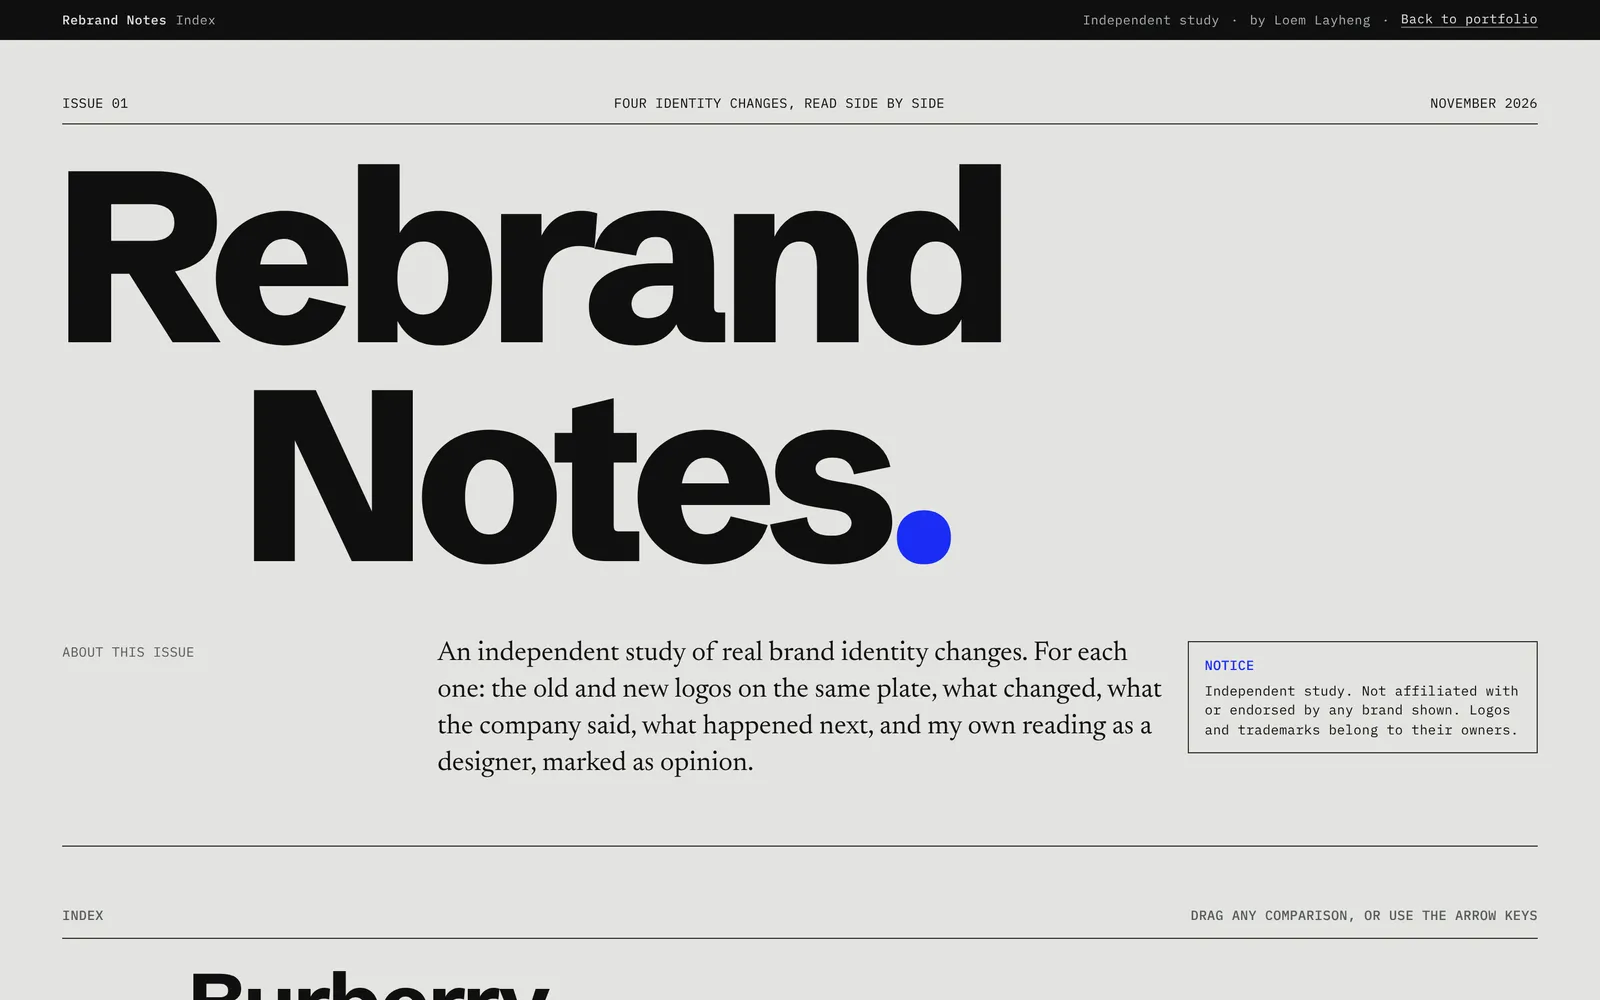
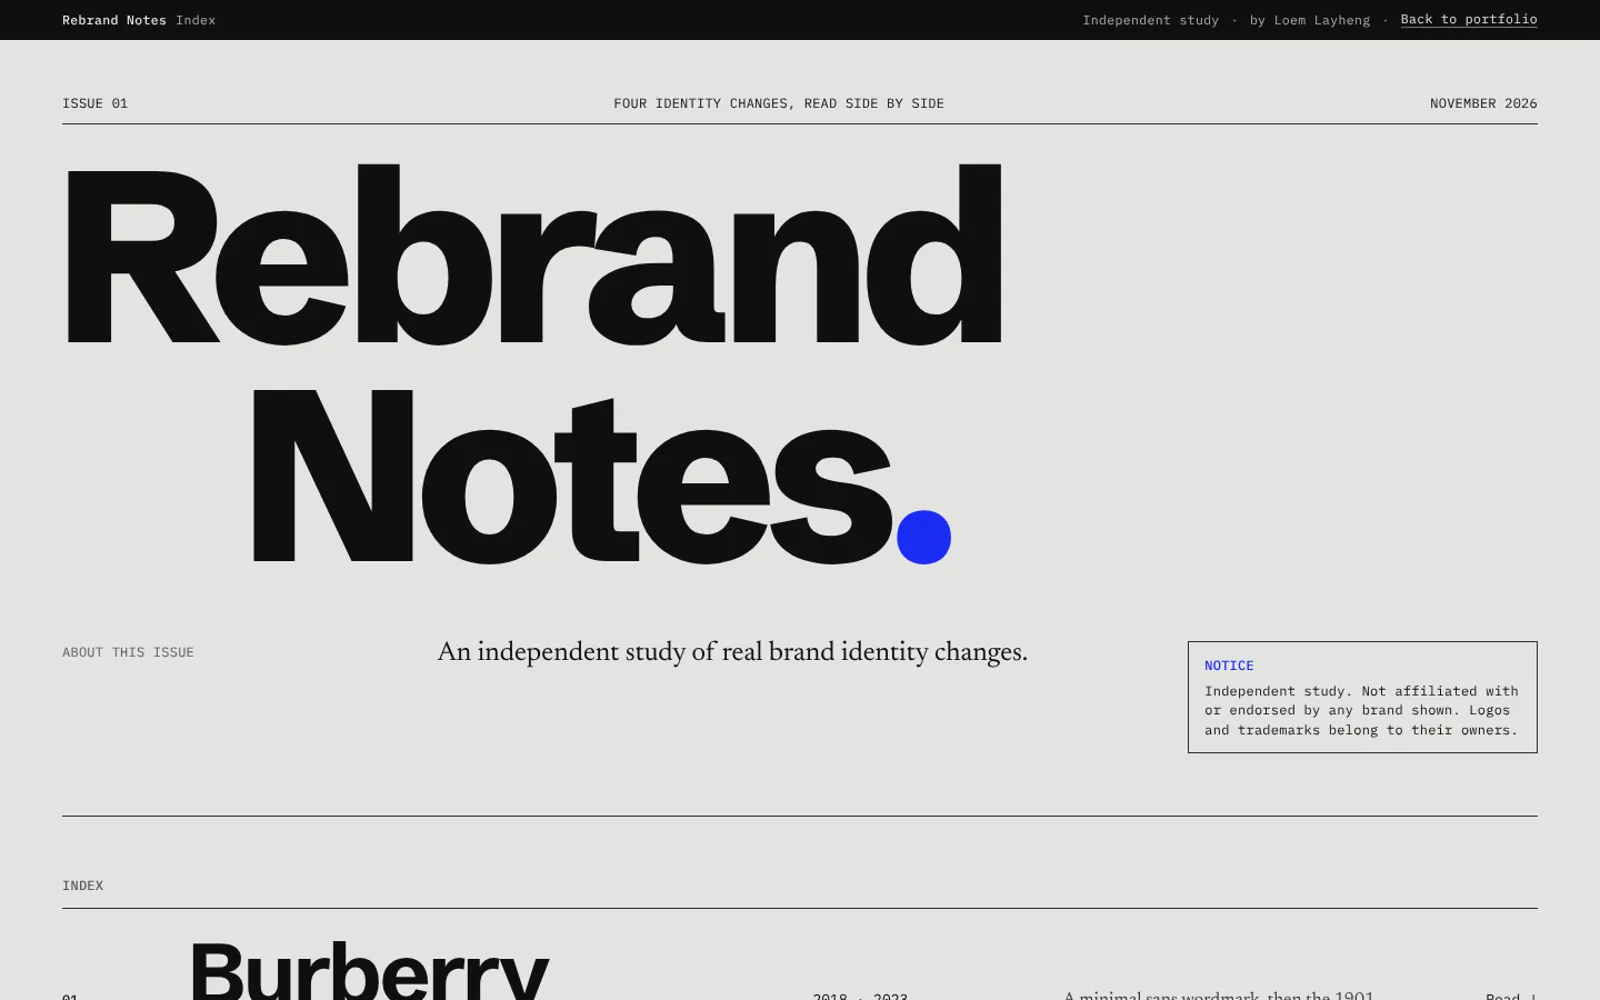
Add drag canvas and WebGL scroll warp (phases 2 and 3)
Design systems: the six menu themes become an endless wall you pan with
inertia (desktop). Built by me: site screenshots bend with scroll speed
through a WebGL layer, crisp at rest. Touch and reduced motion unchanged.

Claude-Session: https://claude.ai/code/session_01Q6ANyzpwdxSMQFA33KyCRJ

diff --git a/Portfolio 2026/index.html b/Portfolio 2026/index.html
@@ -165,6 +165,8 @@
   .browser .chrome i { width: 9px; height: 9px; border-radius: 50%; background: #3a3a37; }
   .browser .chrome span { margin-left: 12px; padding: 3px 12px; border-radius: 6px; background: #2a2a27; }
   .browser img { display: block; width: 100%; height: auto; }
+  .gl-on .browser img { opacity: 0; }
+  #gl { position: fixed; inset: 0; z-index: 41; pointer-events: none; width: 100vw; height: 100vh; }
   .phones { display: grid; grid-template-columns: repeat(3, 1fr); gap: 14px; }
   .phones img { width: 100%; border-radius: 14px; display: block; box-shadow: 0 30px 60px -30px #000; }
   .phones.two { grid-template-columns: 1fr 1fr; }
@@ -185,6 +187,12 @@
   .theme .sw { display: flex; } .theme .sw i { width: 22px; height: 22px; border-radius: 50%; border: 2px solid var(--tb); margin-left: -6px; background: var(--c); transition: margin var(--t2) var(--out); }
   .theme:hover .sw i { margin-left: 2px; }
   .ds-wall { transition: background-color var(--t4) var(--io); }
+  /* infinite drag canvas (desktop) */
+  .ds-canvas { position: relative; height: 92vh; margin: 0 calc(-1 * var(--g)); overflow: hidden; cursor: grab; touch-action: none; user-select: none; }
+  .ds-canvas.grab { cursor: grabbing; }
+  .ds-canvas .theme { position: absolute; left: 0; top: 0; width: 380px; min-height: 0; height: 640px; will-change: transform; transition: none; opacity: 1; }
+  .ds-canvas.grab .theme { pointer-events: none; }
+  .ds-canvas .theme img { -webkit-user-drag: none; }
 
   /* Product work: list linking to cases */
   .cases { list-style: none; border-top: 1px solid var(--line); margin-top: 10vh; }
@@ -356,6 +364,7 @@
 </main>
 
 <section class="view" id="view" tabindex="-1" aria-hidden="true" inert></section>
+<canvas id="gl" aria-hidden="true"></canvas>
 
 <div class="scrim" data-close></div>
 <aside class="panel" id="panel" role="dialog" aria-modal="true" aria-label="About" aria-hidden="true" inert>
@@ -554,7 +563,7 @@ const PAGES = {
   design() {
     return `<div class="ds-wall" id="dsWall">` + hero(['← All rooms', '#'], 'Design systems', 'One menu engine, six identities. Each shop type gets its own fonts, colours and layout, so a karaoke bar never looks like a bakery.', 'Live demos<br>menu-platform', ROOMS[1].color) +
     `<div class="sec"><div class="ds-intro rv"><p>Same data underneath: items, prices in dollars and riel, deals, sold-out flags, Khmer and English.</p><p>On top, a theme per shop type.</p></div>
-      <div class="themes">${THEMES.map((t, i) => `<a class="theme rv" style="--d:${(i % 3) * .1}s;--tb:${t.bg};--tt:${t.tx};--tf:'${t.font}',serif" href="https://menu-platform-orpin.vercel.app/${t.slug}" target="_blank" rel="noopener" data-cursor="Open menu" data-bg="${t.bg}">
+      ${CANVAS() ? `<div class="ds-canvas" id="dsCanvas"></div>` : ''}<div class="themes"${CANVAS() ? ' hidden' : ''}>${THEMES.map((t, i) => `<a class="theme rv" style="--d:${(i % 3) * .1}s;--tb:${t.bg};--tt:${t.tx};--tf:'${t.font}',serif" href="https://menu-platform-orpin.vercel.app/${t.slug}" target="_blank" rel="noopener" data-cursor="Open menu" data-bg="${t.bg}">
         <span class="hd"><span>0${i + 1} · ${t.type}</span><span>↗</span></span>
         <span class="spec">${esc(t.name)}</span><span class="pic"><img src="${t.img}" alt="${esc(t.name)} menu on a phone" loading="lazy"></span>
         <span class="ft"><span>${t.fonts}</span><span class="sw">${t.c.map(c => `<i style="--c:${c}"></i>`).join('')}</span></span></a>`).join('')}</div></div></div>` + foot('Next room', '#work', 'Product work', ROOMS[2].color);
@@ -601,7 +610,7 @@ function route() {
   const c = room === 'work' && sub ? CASES.find(x => x.id === sub) : null;
   const html = c ? casePage(c) : PAGES[room]?.();
   if (!html) { // home
-    lenis?.destroy(); lenis = null; current = null; view.classList.remove('on'); view.inert = true; view.setAttribute('aria-hidden', 'true'); view.innerHTML = '';
+    lenis?.destroy(); lenis = null; current = null; view.classList.remove('gl-on'); $('#gl').style.display = 'none'; view.classList.remove('on'); view.inert = true; view.setAttribute('aria-hidden', 'true'); view.innerHTML = '';
     home.inert = false; document.body.classList.remove('lock'); document.title = BASE; setTop(); return;
   }
   current = h;
@@ -615,9 +624,100 @@ function route() {
   io?.disconnect();
   io = new IntersectionObserver(es => es.forEach(e => { if (e.isIntersecting) { e.target.classList.add('shown'); io.unobserve(e.target); } }), { root: view, threshold: .12 });
   view.querySelectorAll('.rv, .browser').forEach(el => io.observe(el));
+  dsCanvas();
+  glWarp();
   setTop();
 }
 const home = $('#home');
+// WebGL: screenshots in Built by me bend with scroll speed (desktop, fine pointer)
+const glState = { gl: null };
+function glWarp() {
+  const cv = $('#gl');
+  view.classList.remove('gl-on'); cv.style.display = 'none';
+  if (!HOVER || reduce() || location.hash.slice(1) !== 'built') return;
+  let gl = glState.gl;
+  if (!gl) {
+    gl = cv.getContext('webgl', { premultipliedAlpha: false, alpha: true }); if (!gl) return;
+    const sh = (t, src) => { const o = gl.createShader(t); gl.shaderSource(o, src); gl.compileShader(o); return o; };
+    const pr = gl.createProgram();
+    gl.attachShader(pr, sh(gl.VERTEX_SHADER, `attribute vec2 p; uniform vec4 r; uniform vec2 res; uniform float v; varying vec2 uv;
+      void main(){ uv = p; vec2 q = r.xy + p * r.zw; float c = (q.y / res.y - .5);
+        q.y += sin(p.x * 3.14159) * v * 12.0; q.x += c * v * 6.0 * (p.x - .5);
+        vec2 n = q / res * 2.0 - 1.0; gl_Position = vec4(n.x, -n.y, 0., 1.); }`));
+    gl.attachShader(pr, sh(gl.FRAGMENT_SHADER, `precision mediump float; varying vec2 uv; uniform sampler2D t; uniform float vf;
+      void main(){ float s = vf * .0035; vec4 c = vec4(texture2D(t, uv + vec2(s, 0.)).r, texture2D(t, uv).g, texture2D(t, uv - vec2(s, 0.)).b, 1.); gl_FragColor = c; }`));
+    gl.linkProgram(pr); if (!gl.getProgramParameter(pr, gl.LINK_STATUS)) { console.warn(gl.getProgramInfoLog(pr)); return; } gl.useProgram(pr);
+    const N = 24, pts = [];
+    for (let i = 0; i < N; i++) for (let j = 0; j < N; j++) { const a = i / N, b = j / N, c = (i + 1) / N, d = (j + 1) / N; pts.push(a, b, c, b, a, d, a, d, c, b, c, d); }
+    const buf = gl.createBuffer(); gl.bindBuffer(gl.ARRAY_BUFFER, buf); gl.bufferData(gl.ARRAY_BUFFER, new Float32Array(pts), gl.STATIC_DRAW);
+    const loc = gl.getAttribLocation(pr, 'p'); gl.enableVertexAttribArray(loc); gl.vertexAttribPointer(loc, 2, gl.FLOAT, false, 0, 0);
+    glState.gl = gl; glState.n = pts.length / 2; glState.u = { r: gl.getUniformLocation(pr, 'r'), res: gl.getUniformLocation(pr, 'res'), v: gl.getUniformLocation(pr, 'v'), vf: gl.getUniformLocation(pr, 'vf') };
+    glState.tex = new Map();
+  }
+  const imgs = [...view.querySelectorAll('.browser img')];
+  const ready = imgs.map(img => new Promise(ok => img.complete && img.naturalWidth ? ok() : img.addEventListener('load', ok, { once: true })));
+  imgs.forEach(img => img.loading = 'eager');
+  Promise.all(ready).then(() => {
+    if (location.hash.slice(1) !== 'built') return;
+    imgs.forEach(img => { if (glState.tex.has(img.src)) return; const t = gl.createTexture(); gl.bindTexture(gl.TEXTURE_2D, t);
+      gl.texImage2D(gl.TEXTURE_2D, 0, gl.RGBA, gl.RGBA, gl.UNSIGNED_BYTE, img);
+      gl.texParameteri(gl.TEXTURE_2D, gl.TEXTURE_MIN_FILTER, gl.LINEAR); gl.texParameteri(gl.TEXTURE_2D, gl.TEXTURE_WRAP_S, gl.CLAMP_TO_EDGE); gl.texParameteri(gl.TEXTURE_2D, gl.TEXTURE_WRAP_T, gl.CLAMP_TO_EDGE);
+      glState.tex.set(img.src, t); });
+    cv.style.display = 'block'; view.classList.add('gl-on');
+    let last = view.scrollTop, vel = 0;
+    const frame = () => {
+      if (!view.classList.contains('gl-on')) return;
+      const dpr = Math.min(devicePixelRatio, 2), w = innerWidth, h = innerHeight;
+      if (cv.width !== w * dpr) { cv.width = w * dpr; cv.height = h * dpr; }
+      gl.viewport(0, 0, cv.width, cv.height); gl.clearColor(0, 0, 0, 0); gl.clear(gl.COLOR_BUFFER_BIT);
+      const y = view.scrollTop; vel += ((y - last) - vel) * .12; last = y;
+      gl.uniform2f(glState.u.res, w, h); const vv = Math.max(-1.2, Math.min(1.2, vel / 30)); gl.uniform1f(glState.u.v, vv); gl.uniform1f(glState.u.vf, vv);
+      for (const img of imgs) {
+        const b = img.getBoundingClientRect(); if (b.bottom < -50 || b.top > h + 50) continue;
+        // clip-path reveal on the frame: only draw once the frame is shown
+        if (!img.closest('.browser').classList.contains('shown')) continue;
+        gl.bindTexture(gl.TEXTURE_2D, glState.tex.get(img.src));
+        gl.uniform4f(glState.u.r, b.left, b.top, b.width, b.height);
+        gl.drawArrays(gl.TRIANGLES, 0, glState.n);
+      }
+      requestAnimationFrame(frame);
+    };
+    frame();
+  });
+}
+// Design systems: infinite canvas you can pan with inertia (desktop, fine pointer)
+const CANVAS = () => HOVER && innerWidth > 900 && !reduce();
+function dsCanvas() {
+  const box = $('#dsCanvas'); if (!box) return;
+  const src = [...view.querySelectorAll('.themes .theme')];
+  const CW = 420, CH = 700, COLS = Math.max(4, Math.ceil(innerWidth / CW) + 1), ROWS = 3;
+  const W = COLS * CW, H = ROWS * CH, cards = [];
+  for (let r = 0; r < ROWS; r++) for (let c = 0; c < COLS; c++) {
+    const k = (r * 2 + c) % src.length, el = src[k].cloneNode(true);
+    el.classList.remove('rv'); if (cards.length >= src.length) el.tabIndex = -1;
+    el.style.removeProperty('--d'); box.appendChild(el);
+    cards.push({ el, bx: c * CW + (r % 2) * CW / 2, by: r * CH });
+  }
+  let ox = -CW * .35, oy = -CH * .45, vx = 0, vy = -.6, down = false, lx = 0, ly = 0, moved = 0;
+  const wrap = (v, m) => ((v % m) + m) % m;
+  const draw = () => {
+    if (!box.isConnected) return;
+    if (!down) { ox += vx; oy += vy; vx *= .95; vy *= .95; if (Math.abs(vx) + Math.abs(vy) < .05) { vx = 0; vy = -.25; } }
+    for (const c of cards) {
+      const x = wrap(c.bx + ox, W) - CW, y = wrap(c.by + oy, H) - CH;
+      c.el.style.transform = `translate3d(${x}px, ${y}px, 0)`;
+    }
+    requestAnimationFrame(draw);
+  };
+  box.addEventListener('pointerdown', e => { if (e.button) return; down = true; moved = 0; lx = e.clientX; ly = e.clientY; vx = vy = 0; e.preventDefault(); });
+  addEventListener('pointermove', e => { if (!down) return; const dx = e.clientX - lx, dy = e.clientY - ly; lx = e.clientX; ly = e.clientY; ox += dx; oy += dy; vx = dx; vy = dy; moved += Math.abs(dx) + Math.abs(dy); if (moved > 6) box.classList.add('grab'); });
+  const up = () => { down = false; box.classList.remove('grab'); };
+  addEventListener('pointerup', up); addEventListener('pointercancel', up);
+  box.addEventListener('click', e => { if (moved > 6) e.preventDefault(); }, true);
+  // keyboard: focusing a card brings it to the centre
+  box.addEventListener('focusin', e => { const c = cards.find(c => c.el === e.target); if (!c) return; const b = box.getBoundingClientRect(); ox += (b.width / 2 - 190) - (wrap(c.bx + ox, W) - CW); oy += (b.height / 2 - 320) - (wrap(c.by + oy, H) - CH); vx = vy = 0; });
+  draw();
+}
 // Design systems: page tints toward the theme you hover
 view.addEventListener('pointerover', e => {
   const wall = $('#dsWall'); if (!wall || !HOVER) return;
